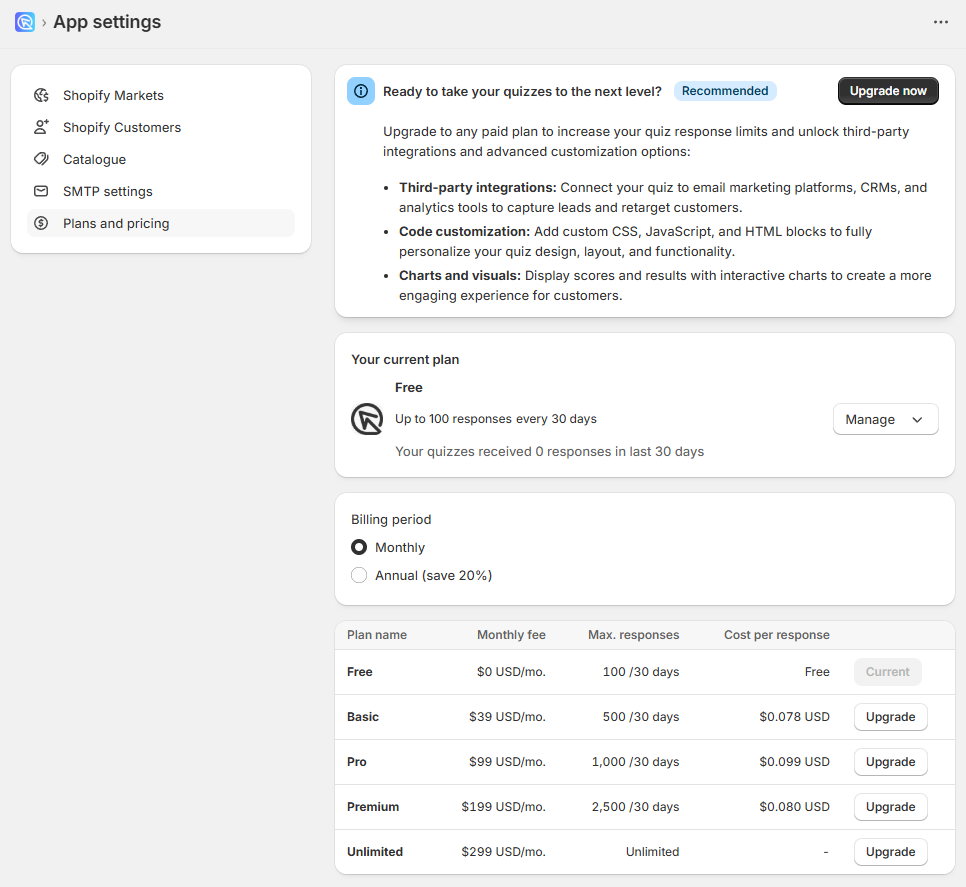
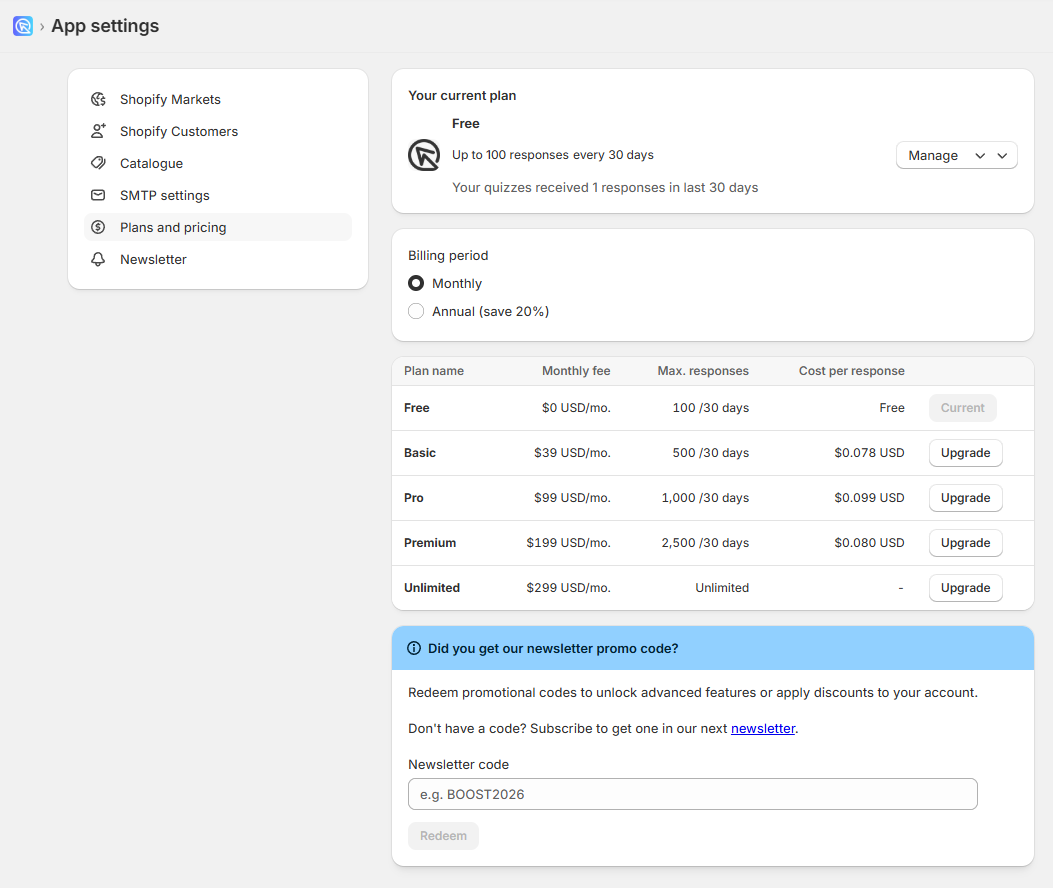
docs: update app settings and plans-pricing documentation to reflect newsletter management and new discount code functionality

diff --git a/docs/reference/app-settings.md b/docs/reference/app-settings.md
@@ -474,15 +474,13 @@
 
     Check [Plans & Pricing](/reference/plans-pricing/) for more information on the different plans and pricing options available.   
 
-## Promos
+## Newsletter
 
 === "Shopify"
 
-    ![app settings promos](/images/manual_shopifyV2_appsettings_promos.png)
+    ![app settings newsletter](/images/manual_shopifyv2_newsletter.png)
 
-    `Promos` - Manage your promos and discounts here.
-
-    `Promo code` - Enter the promo code and confirm by clicking the `Redeem` button.
+    `Email address` - Enter an email address to subscribe to the newsletter.
 
 === "Shopify (Legacy)"
 

diff --git a/docs/reference/plans-pricing.md b/docs/reference/plans-pricing.md
@@ -19,7 +19,7 @@
 
     `Upgrade` - Click to upgrade to a paid plan.
 
-
+    `Newsletter code` - Enter the newsletter code to redeem a discount or unlock advanced features. Click `Redeem` to apply the code.
 
 
 === "Shopify (Legacy)"
